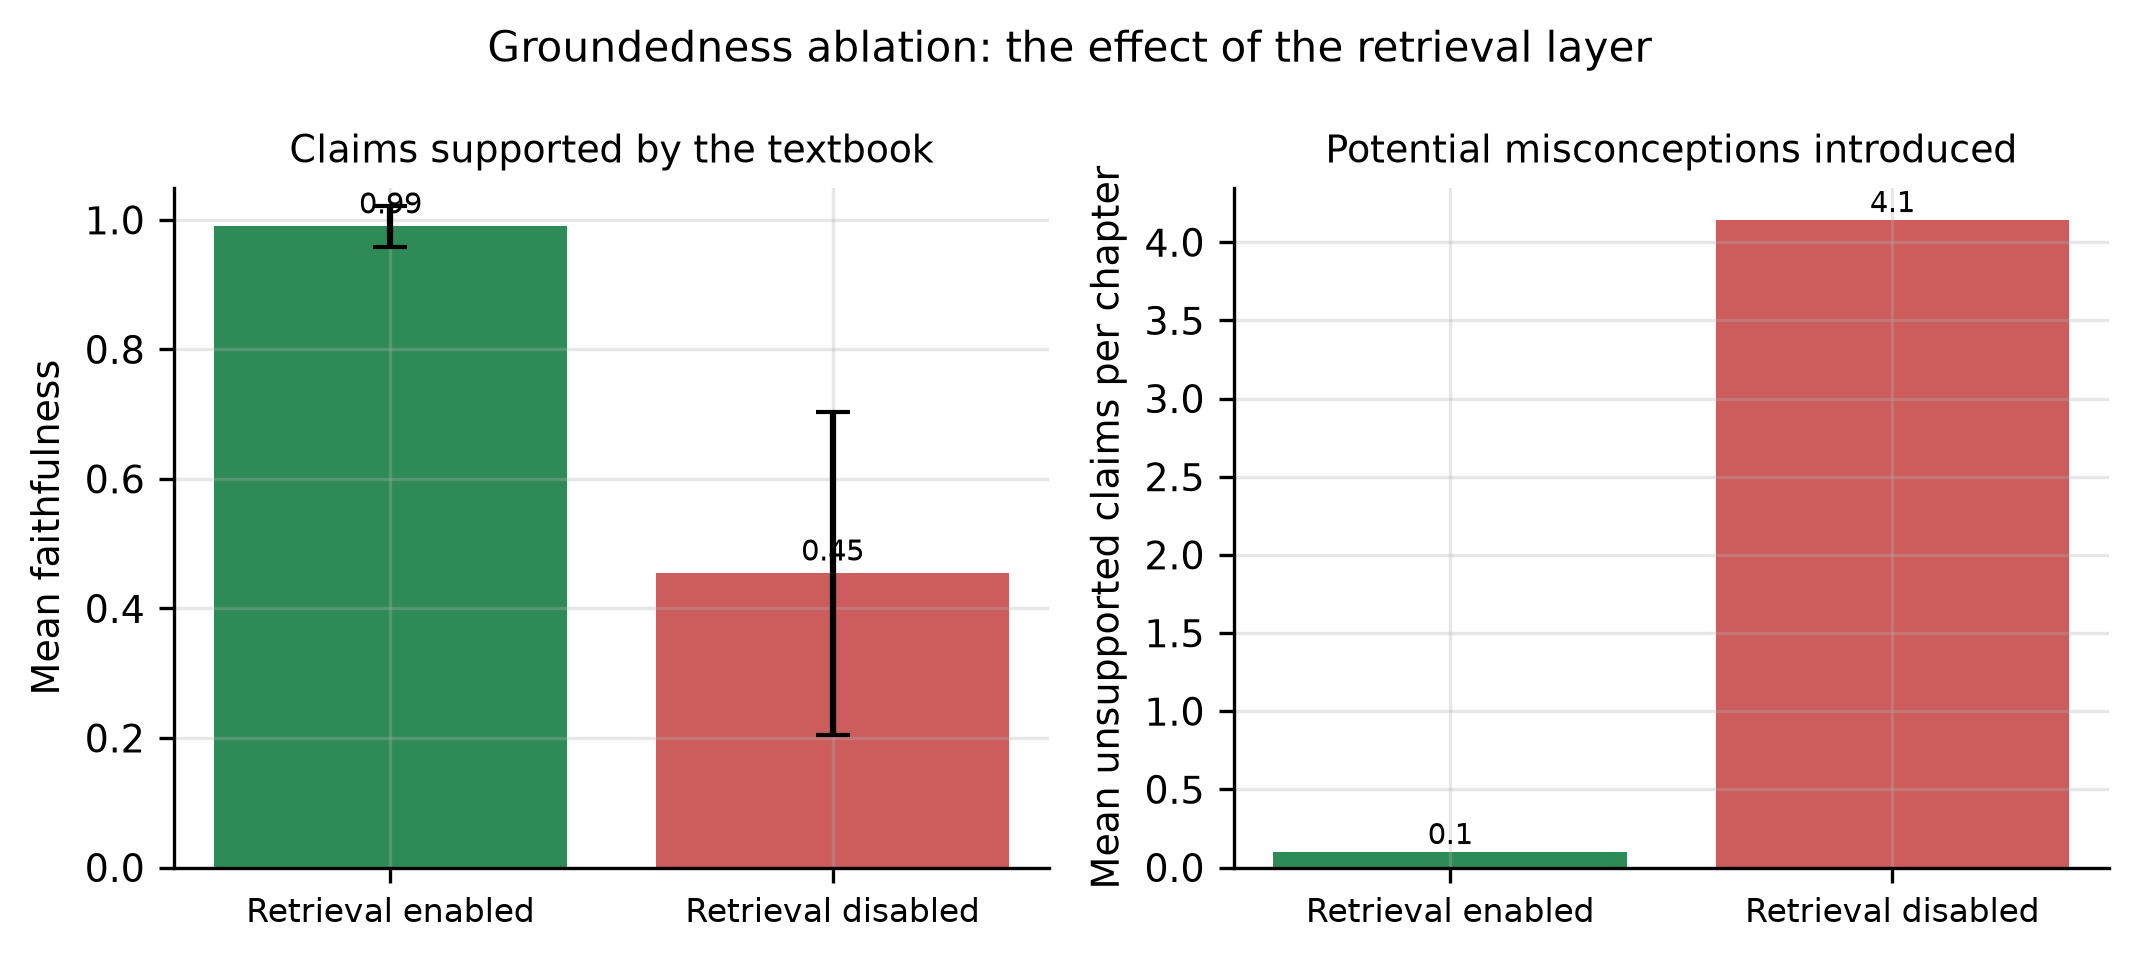
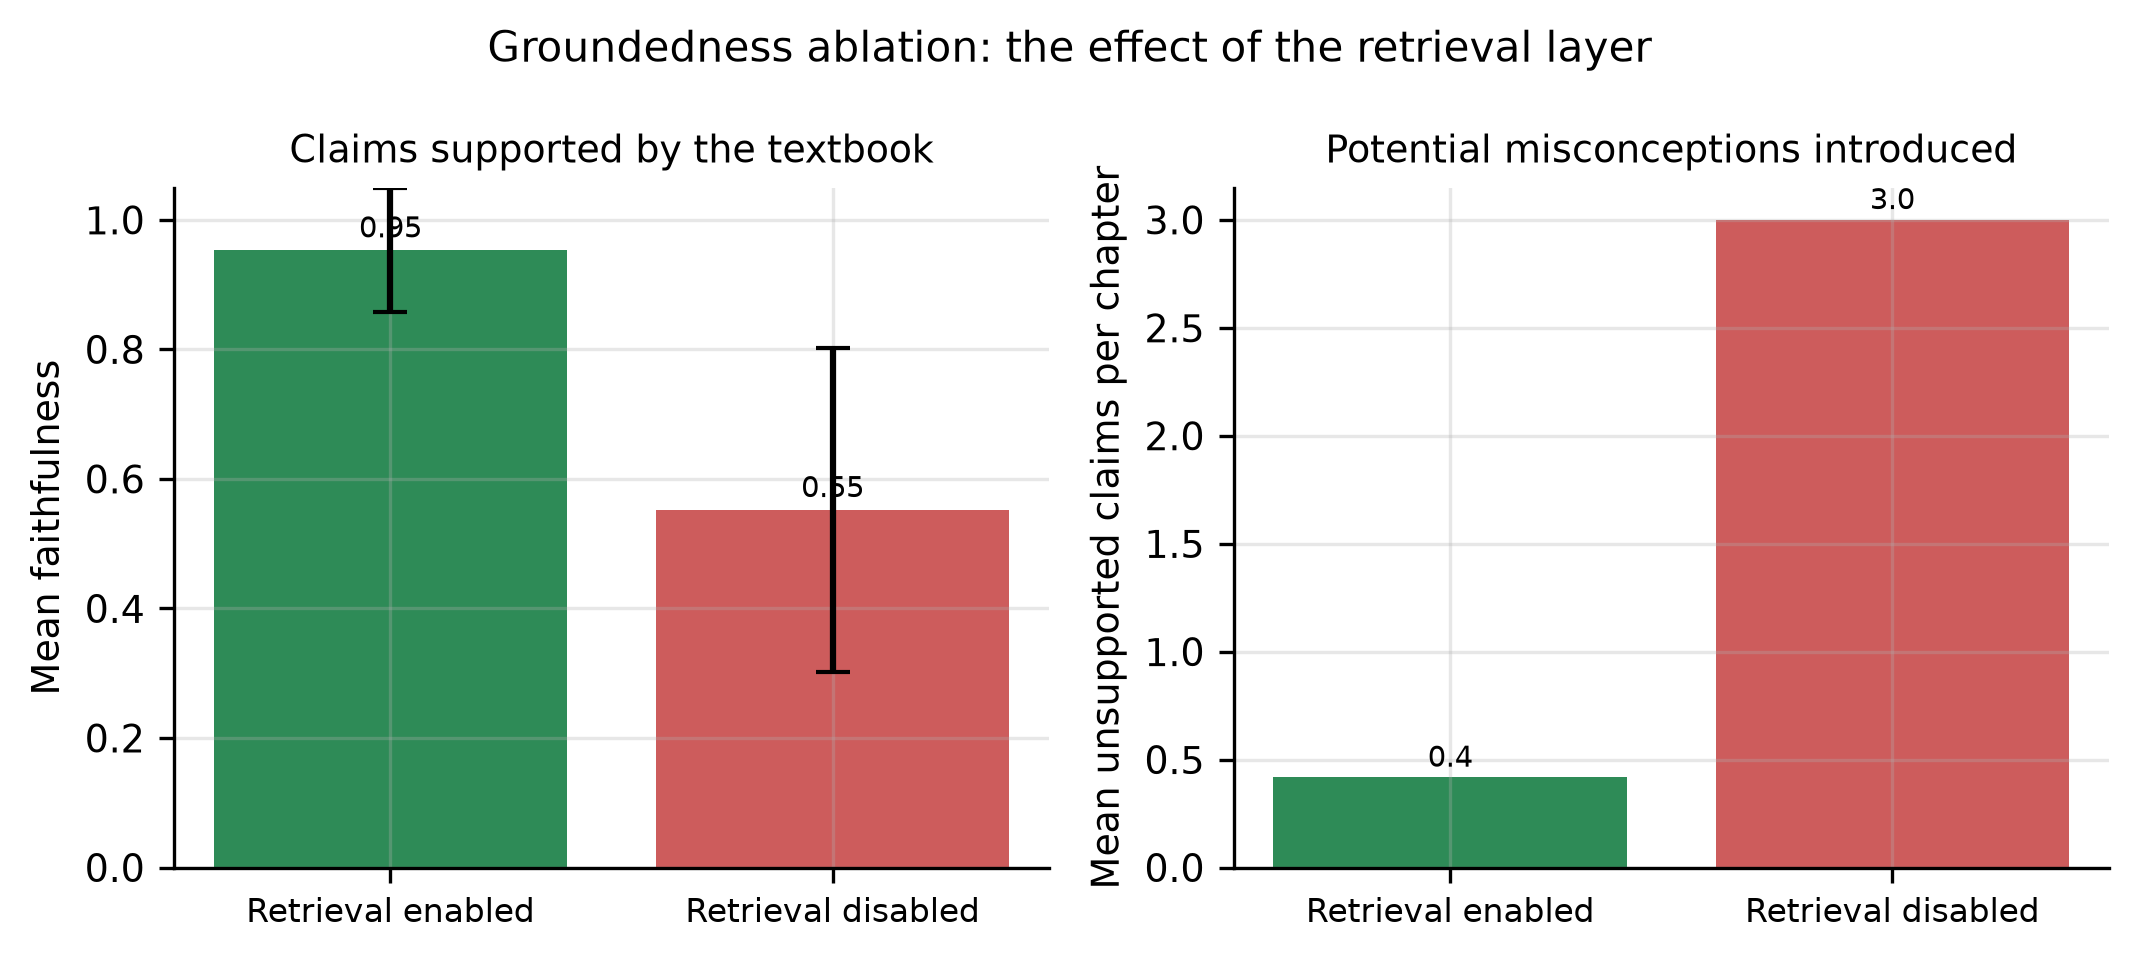
T4 re-run with judges exchanged, and a statistical honesty pass
Re-running T4 with google/gemini-3.7-flash as primary judge and
deepseek/deepseek-v4-flash-0731 as secondary eliminates the exclusions entirely:
24 of 24 judgements usable against 17 of 24, and a balanced 12-against-12 design
rather than 10 against 7.

  RAG on   n=12  faithfulness 0.953 (sd 0.096)  unsupported claims 0.42
  RAG off  n=12  faithfulness 0.552 (sd 0.250)  unsupported claims 3.00

  difference +0.401   Cohen's d +2.118
  Mann-Whitney U = 10.0, z = 3.690, p = 0.00022 (two-tailed)
  unsupported claims: U = 14.0, z = 3.529, p = 0.00042

The deepseek-primary run is retained permanently rather than replaced. It is not
superseded data but evidence about the method: judge choice determined both the usable
sample (71% against 100%) and the measured effect size (+0.536 against +0.401) on
identical generations. A single unvalidated judge reports an effect whose magnitude is
partly a property of the judge.

Inter-judge agreement is stable at rho 0.718 and 0.727 across the two runs regardless
of which model leads. The Weather rag_on chapter diverged severely in both (1.000
against 0.286, then 0.700 against 0.000), so it is persistently contentious and is the
first candidate for human adjudication.

Statistical honesty pass applied to RESULTS_SUMMARY.md: explicit n wherever a mean is
quoted, the RAG-off standard deviation of 0.250 alongside its mean, a statement that
the effect's existence and direction are established while its magnitude carries wide
[…]

diff --git a/backend/evaluation/harness.py b/backend/evaluation/harness.py
@@ -224,6 +224,54 @@ def spearman(xs, ys):
     return round(num / den, 4) if den else 0.0
 
 
+def mann_whitney_u(a, b):
+    """Mann-Whitney U with a normal approximation, implemented without SciPy.
+
+    Returns (u, z, p_two_tailed, note). The test is non-parametric and makes no
+    normality assumption, which suits small samples of bounded scores. The p-value
+    uses the normal approximation WITH tie correction and a continuity correction;
+    below roughly n=8 per group that approximation is rough, and the returned note
+    says so rather than letting a precise-looking p stand unqualified.
+    """
+    n1, n2 = len(a), len(b)
+    if n1 == 0 or n2 == 0:
+        return 0.0, 0.0, 1.0, "empty group"
+    combined = sorted(a + b)
+    ranks = _rank(combined)
+    lookup = {}
+    for value, rank in zip(combined, ranks):
+        lookup.setdefault(value, []).append(rank)
+    used = {}
+    def rank_of(v):
+        i = used.get(v, 0)
+        used[v] = i + 1
+        return lookup[v][i]
+    r1 = sum(rank_of(v) for v in sorted(a))
+    u1 = r1 - n1 * (n1 + 1) / 2.0
+    u2 = n1 * n2 - u1
+    u = min(u1, u2)
+
+    mean_u = n1 * n2 / 2.0
+    tie_groups = {}
+    for v in combined:
+        tie_groups[v] = tie_groups.get(v, 0) + 1
+    n = n1 + n2
+    tie_term = sum(t ** 3 - t for t in tie_groups.values())
+    var_u = (n1 * n2 / 12.0) * ((n + 1) - tie_term / float(n * (n - 1))) if n > 1 else 0.0
+    if var_u <= 0:
+        return round(u, 2), 0.0, 1.0, "zero variance"
+    z = max(0.0, abs(u - mean_u) - 0.5) / math.sqrt(var_u)
+    p = 2.0 * (1.0 - _norm_cdf(z))
+    note = ("normal approximation is rough below n=8 per group"
+            if min(n1, n2) < 8 else "normal approximation")
+    return round(u, 2), round(z, 4), round(min(1.0, max(0.0, p)), 5), note
+
+
+def _norm_cdf(z):
+    """Standard normal CDF via the error function."""
+    return 0.5 * (1.0 + math.erf(z / math.sqrt(2.0)))
+
+
 def mean_sd(values):
     """Sample mean and standard deviation (n-1 denominator)."""
     values = [v for v in values if v is not None]

diff --git a/backend/evaluation/RESULTS_SUMMARY.md b/backend/evaluation/RESULTS_SUMMARY.md
@@ -12,13 +12,14 @@ that command. No figure has been entered by hand.
 |---|---|
 | Date of runs | 2026-08-25 |
 | Generation model | `openai/gpt-5.4-mini` (the configured model, unchanged) |
-| Judge model, T4 | `deepseek/deepseek-v4-flash-0731` |
-| Second judge, T4 | `google/gemini-3.7-flash` (six chapters, for agreement) |
+| Judge model, T4 (reported run) | `google/gemini-3.7-flash` |
+| Second judge, T4 | `deepseek/deepseek-v4-flash-0731` (six chapters, for agreement) |
+| Judge model, T4 (first run, retained) | `deepseek/deepseek-v4-flash-0731`, with gemini secondary |
 | Provider | OpenRouter, `https://openrouter.ai/api/v1/` |
 | `USE_MOCK_LLM` | `false` throughout; `backend/.env` was never modified |
 | Index | Chroma collection `textbooks`, **1,122 chunks** |
 | Embedding | Chroma default, computed locally |
-| Total API spend | **≈ US$0.49** of a US$5.00 cap (see section 10) |
+| Total API spend | **≈ US$0.57** of a US$5.00 cap (see section 10) |
 
 ### Index composition
 
@@ -274,41 +275,101 @@ in generated chapters.
 excerpts supplied and once without, and both chapters were scored by an LLM judge
 against the same textbook evidence. Six chapters were additionally scored by a second,
 independent judge on identical evidence and prose so that inter-judge agreement could be
-reported.
+reported. The experiment was run twice with the two judges exchanging roles, because
+the first run lost 29% of its judgements.
 
-| Condition | n | Mean faithfulness | sd | Mean claims | **Mean unsupported** | Mean contradicted |
+### Reported result — `google/gemini-3.7-flash` as primary judge
+
+| Condition | **n** | Mean faithfulness | **sd** | Mean claims | **Mean unsupported** | Mean contradicted |
 |---|---|---|---|---|---|---|
-| RAG on | 10 | **0.990** | 0.032 | 10.7 | **0.10** | 0.0 |
-| RAG off | 7 | **0.454** | 0.249 | 7.4 | **4.14** | 0.0 |
+| RAG on | **12** | **0.953** | **0.096** | 9.5 | **0.42** | 0.08 |
+| RAG off | **12** | **0.552** | **0.250** | 7.2 | **3.00** | 0.00 |
 
-Faithfulness rises by **0.536** with retrieval enabled; unsupported claims per chapter
-fall **41-fold**.
+**No judgement failed**: 24 of 24 usable, a balanced design with no exclusions.
 
-### Inter-judge agreement (n = 6)
+### Significance
 
-| Statistic | Value |
-|---|---|
-| Spearman ρ | +0.718 |
-| Mean absolute difference | 0.152 |
-| Exact agreement | 3 / 6 |
-| Within 0.10 | 4 / 6 |
-| Largest divergence | `Weather` rag_on: 1.000 against 0.286 |
+| Statistic | Faithfulness | Unsupported claims |
+|---|---|---|
+| Difference in means | **+0.401** | −2.58 per chapter |
+| Cohen's d | **+2.118** | — |
+| Mann–Whitney U | **10.0** | 14.0 |
+| z | 3.690 | 3.529 |
+| **p (two-tailed)** | **0.00022** | 0.00042 |
+
+Mann–Whitney U is non-parametric and assumes no distributional form, which suits
+bounded scores in small samples. At n = 12 per group the normal approximation used to
+obtain p is appropriate; tie and continuity corrections are applied.
+
+**The difference is unlikely to be sampling noise.** The RAG-off standard deviation of
+0.250 is more than twice the RAG-on figure of 0.096, so ungrounded generation is both
+less faithful *and* far less consistent; quoting 0.552 without its spread would imply
+precision the data do not carry.
+
+### First run — `deepseek/deepseek-v4-flash-0731` as primary judge
+
+Retained permanently. It is not superseded data but evidence about the method.
+
+| Condition | n | Mean faithfulness | sd | Mean unsupported |
+|---|---|---|---|---|
+| RAG on | 10 | 0.990 | 0.032 | 0.10 |
+| RAG off | 7 | 0.454 | 0.249 | 4.14 |
+
+**7 of 24 judgements failed** (29%), all `deepseek` returning invalid JSON, all excluded
+from the means. The design was left unbalanced at 10 against 7.
+
+### What the two runs together show
+
+| | deepseek primary | gemini primary |
+|---|---|---|
+| Usable judgements | 17 / 24 (71%) | **24 / 24 (100%)** |
+| Design | unbalanced, 10 vs 7 | balanced, 12 vs 12 |
+| Measured effect | +0.536 | **+0.401** |
+
+**Judge choice materially affects both the usable sample and the measured effect size.**
+The effect survives the change of judge — it is large and significant under both — but
+its magnitude moved by 0.135 purely from swapping the scorer, on identical prose. That
+is a finding about LLM-as-judge methodology in its own right: a single unvalidated judge
+reports an effect size that is partly a property of the judge.
+
+### Inter-judge agreement
+
+Six chapters were scored by both models on identical evidence and prose, in both runs.
+
+| | deepseek primary | gemini primary |
+|---|---|---|
+| Spearman ρ | +0.718 | +0.727 |
+| Mean absolute difference | 0.152 | 0.186 |
+| Exact agreement | 3 / 6 | 3 / 6 |
+| Within 0.10 | 4 / 6 | 3 / 6 |
+
+Agreement is stable at ρ ≈ 0.72 regardless of which model leads. `Weather` rag_on
+diverged severely in **both** runs — 1.000 against 0.286 in the first, 0.700 against
+0.000 in the second — so it is a persistently contentious chapter rather than a one-off
+disagreement, and is the obvious first candidate for human adjudication.
 
 ### Provenance
 
 | Grounding | n | Mean faithfulness | Mean unsupported |
 |---|---|---|---|
-| text layer only | 15 | 0.789 | 1.67 |
-| includes recovered text | **2** | 0.617 | 2.50 |
+| text layer only | 20 | 0.759 | 1.50 |
+| includes recovered text | **4** | 0.717 | 2.75 |
 
-At n = 2 the recovered-text row supports no conclusion. Where grounding includes
+At n = 4 the recovered-text row still supports no inference. Where grounding includes
 recovered text the judge scores against a model transcription of a page image rather
 than the book's text layer, so that score measures consistency with the transcription.
 
-**Finding 5.** Retrieval grounding raises measured faithfulness from 0.454 to 0.990 and
-reduces unsupported claims from 4.14 to 0.10 per chapter, which is a safety property
-rather than an accuracy improvement, though the figure carries judge-dependent
-uncertainty and awaits human validation.
+**Finding 5.** Retrieval grounding raises measured faithfulness from 0.552 (sd 0.250,
+n = 12) to 0.953 (sd 0.096, n = 12), a difference of 0.401 that is statistically
+significant (Mann–Whitney U = 10.0, p = 0.00022) and reduces unsupported claims from
+3.00 to 0.42 per chapter, which is a safety property rather than an accuracy
+improvement.
+
+**Precision caveat.** With twelve chapters per condition the *existence* and
+*direction* of the effect are firmly established, and its size is large by any
+conventional standard (d = 2.118). Its *magnitude* nevertheless carries wide
+uncertainty: the two judges differ by 0.135 on the same underlying generations, and the
+figure remains an automated estimate until the human validation template is scored.
 
 ---
 
@@ -350,10 +411,17 @@ Per-level FKGL ranges overlap heavily: L3 spans 6.6–11.5 and L5 spans 7.1–16
 level-5 chapter can be easier than a level-3 chapter. Variance grows four-fold across
 the ladder.
 
+**Sample size.** Each level rests on **n = 8** generations (2 topics x 4 repetitions).
+The Cohen's d values above are computed on 8 against 8 and are therefore themselves
+imprecise: with samples this small, d is a point estimate whose confidence interval is
+wide, and the boundary between "partial" and "collapsed" at d = 0.8 should not be read
+as a sharp threshold. What the data support is the ordering and the direction, not the
+exact effect size of any single adjacent pair.
+
 **Finding 6.** The difficulty ladder is a real gradient whose extremes are strongly
 separated (d = 2.61) and whose surface measures move monotonically, but adjacent levels
-above level 2 do not separate, so it reliably resolves two or three bands rather than
-five.
+above level 2 do not separate at n = 8 per level, so it reliably resolves two or three
+bands rather than five.
 
 ---
 
@@ -420,12 +488,17 @@ limitations. Full detail in `results/corpus_defects.md`.
 
 ### 9.3 Residual failures in the reported results
 
-- **T4: 7 of 24 judgements failed** (29%) and are excluded from the means. All were
-  `deepseek-v4-flash` returning invalid JSON. The exclusion does not threaten the
-  conclusion — the RAG-on side has sd 0.032 against an effect of 0.536 — but a 29%
-  exclusion rate is a weakness.
-- **T4 inter-judge divergence.** Two judges disagreed by 0.714 on one of six chapters.
-  The faithfulness figure is judge-dependent and requires human validation.
+- **T4 judge failures, first run: 7 of 24** (29%), all `deepseek-v4-flash` returning
+  invalid JSON, leaving an unbalanced 10-against-7 design. Re-running with the judges
+  exchanged gave **24 of 24** usable and a balanced 12-against-12 design. Both runs are
+  reported; the first is retained as evidence that judge choice determines the usable
+  sample.
+- **T4 effect size is judge-dependent.** The same generations yield +0.536 under one
+  judge and +0.401 under the other. The effect is large and significant either way, but
+  its magnitude is partly a property of the scorer.
+- **T4 inter-judge divergence.** The judges disagreed by 0.714 and 0.700 on the same
+  chapter (`Weather` rag_on) in the two runs respectively. Persistently contentious, and
+  the first candidate for human adjudication.
 - **T6: 11 of 30 first-attempt generations failed.** Two distinct shapes: mid-object
   truncation where the model ran long, and genuinely malformed output (`qwen`, an
   unterminated string and an empty response). The application's single retry recovers
@@ -465,13 +538,14 @@ limitations. Full detail in `results/corpus_defects.md`.
 | T6 model benchmark (first, voided run) | 30 | yes | US$0.0831 |
 | T6 model benchmark (reported run) | 30 | yes | US$0.1078 |
 | T4 faithfulness (first, voided run) | 55 | yes | US$0.0273 |
-| T4 faithfulness (reported run) | 54 | yes | US$0.0249 |
+| T4 faithfulness (deepseek primary, retained) | 54 | yes | US$0.0249 |
+| T4 faithfulness (gemini primary, reported) | 56 | yes | US$0.0827 |
 | T5 difficulty | 40 | no | ≈ US$0.18 (derived) |
 | T3b ablation | 16 | no | ≈ US$0.07 (derived) |
 | Model availability probe | 1 | no | < US$0.001 |
-| **Total** | **226** | | **≈ US$0.49** |
+| **Total** | **282** | | **≈ US$0.57** |
 
-Against a US$5.00 cap from a US$10.00 balance. Instrumented spend is US$0.2431; the
+Against a US$5.00 cap from a US$10.00 balance. Instrumented spend is US$0.3258; the
 remainder is derived from the token profile measured in T6 for the same model. The
 provider account reports lifetime usage only, and no pre-run baseline was taken, so the
 account figure cannot corroborate this total. Prices are those in force on 2026-08-25
@@ -482,6 +556,29 @@ and are recorded in `harness.PRICES_PER_MTOK`; costs are indicative.
 ## 11. Threshold recommendations
 
 Recommendations only. **No constant was changed in response to any sweep.**
+
+### Why one change was applied and another was not
+
+Exactly one constant changed during this programme, and the contrast with the change
+that was *not* made is the clearest evidence that the repair was principled rather
+than fitted.
+
+| | FINDING-9 (**applied**) | `GATE_MAX_DISTANCE` = 1.10 (**not applied**) |
+|---|---|---|
+| What it changes | **What is measured** — the keep-window stopped depending on how well the query matched | **A threshold value** — the same quantity, evaluated at a different cut-point |
+| Why it was raised | A measure of how much content exists correlated **+0.545** with the best hit's distance: a sign error visible without reference to any target metric | 1.10 scores better than 1.15 on the sweep |
+| Validation | A magnitude-matched control reproduced the repair's passage count and **none** of its improvement (rho -0.133 against -0.134), excluding the rival explanation | None available; the evidence *is* the sweep |
+| Value chosen | 1.15, which is **not** the correlation-maximising value (0.95 and 1.20 both score higher) | 1.10 would be chosen precisely *because* it scores higher |
+
+Changing a threshold after seeing which value scores better is what Rule 2 exists to
+prevent, and it applies to the 1.10 recommendation however sound the recommendation is.
+FINDING-9 was admitted because the defect was identifiable from the mechanism alone,
+because a control experiment excluded the alternative explanation, and because the
+value adopted was demonstrably worse on the target metric than alternatives already
+measured. Absent all three conditions, a change is a fit rather than a repair.
+
+The 1.10 recommendation is therefore recorded below for future work and left
+unapplied.
 
 | Constant | Configured | Sweep optimum | Recommendation |
 |---|---|---|---|
@@ -513,9 +610,11 @@ Recommendations only. **No constant was changed in response to any sweep.**
    judges agreed at ρ = +0.718 with one severe divergence over six chapters. The
    validation template at `t4_judge_validation_TEMPLATE_latest.csv` is unfilled; until it
    is, T4's faithfulness figure is an automated estimate, not a validated measurement.
-6. **Small samples.** T4 rests on 17 usable chapters, T5 on 8 generations per level, T6
-   on 6 prompts per model, and the inter-judge agreement on 6 chapters. Effect sizes are
-   reported so the reader can judge what the samples support.
+6. **Small samples.** T4 rests on 12 chapters per condition, T5 on 8 generations per
+   level, T6 on 6 prompts per model, and inter-judge agreement on 6 chapters. Effect
+   sizes and standard deviations are reported throughout so the reader can judge what
+   the samples support. Where an effect is large enough to test, a non-parametric test
+   is given; where n is too small to test meaningfully, none is computed.
 7. **3.2% of the index is recovered from page images** rather than read from a text
    layer. Each experiment reports its exposure; T4's recovered-text row has n = 2 and
    supports no conclusion.
